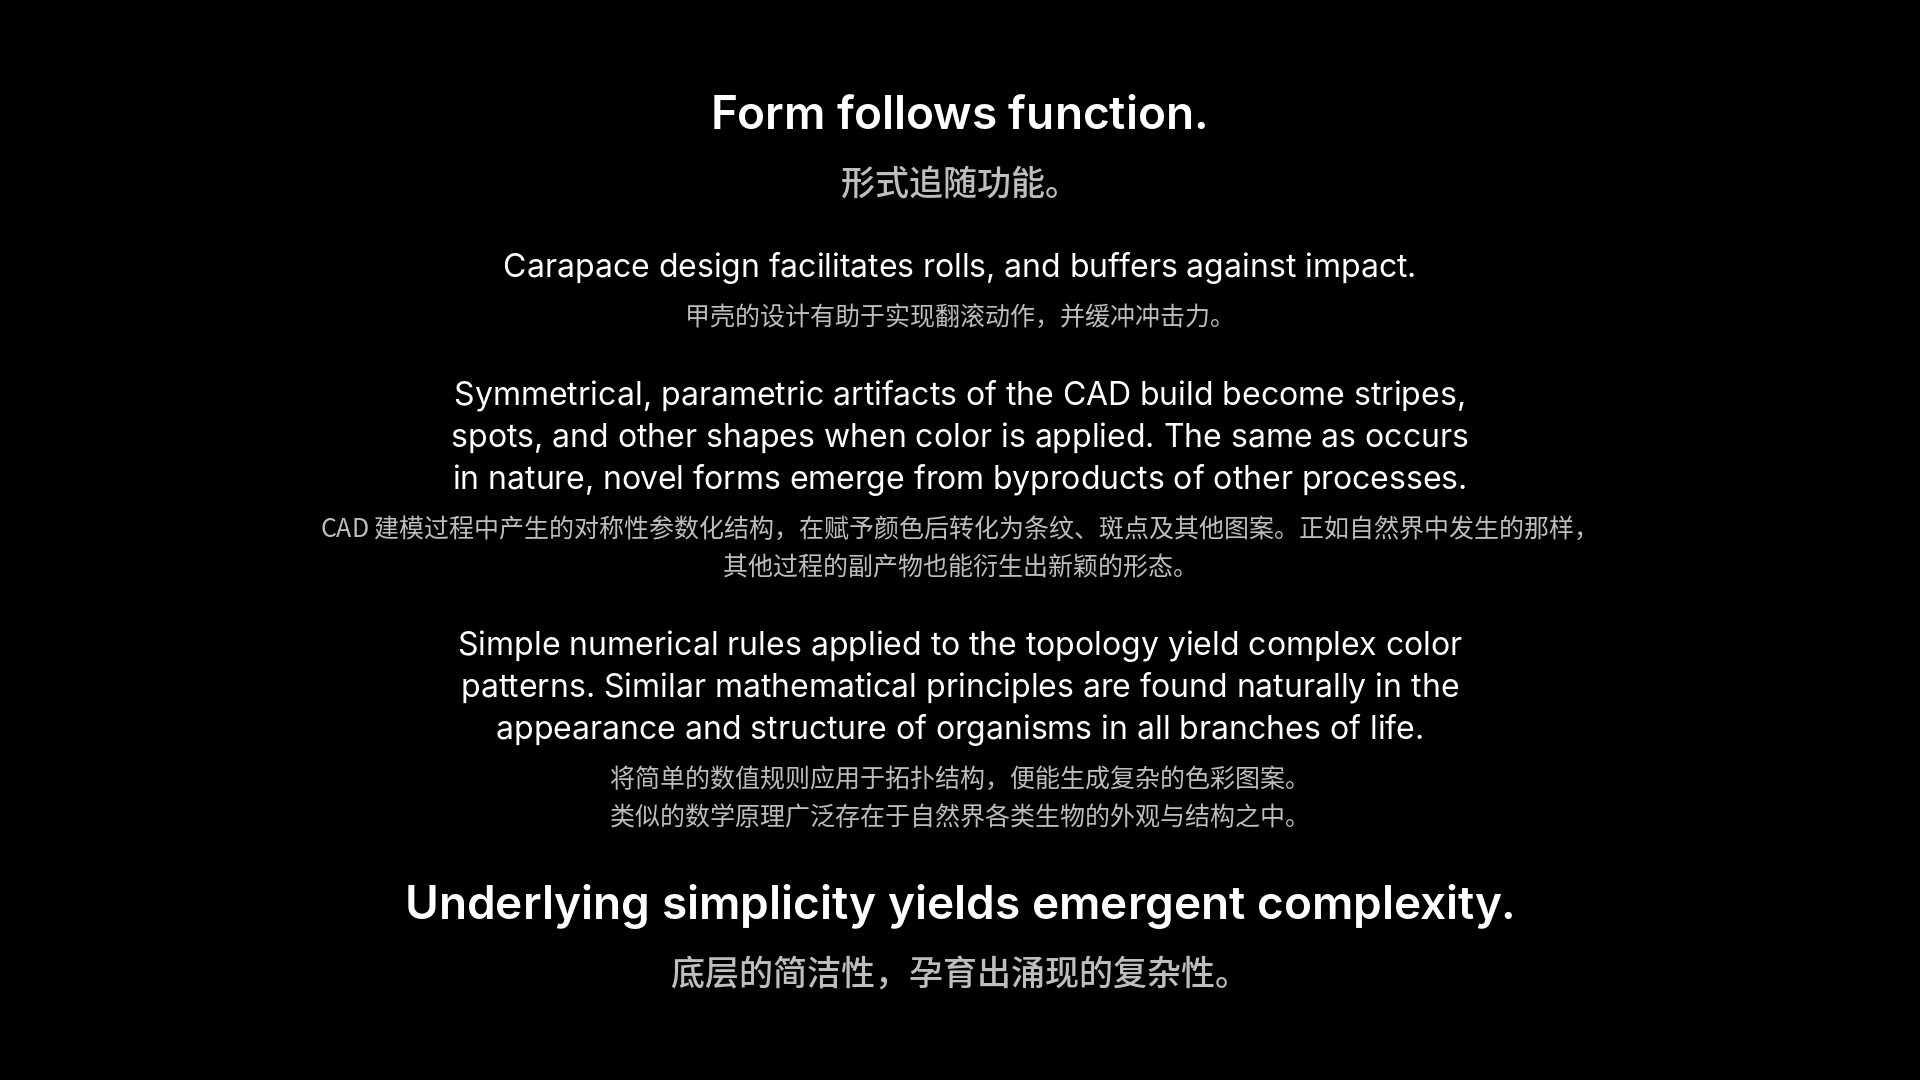
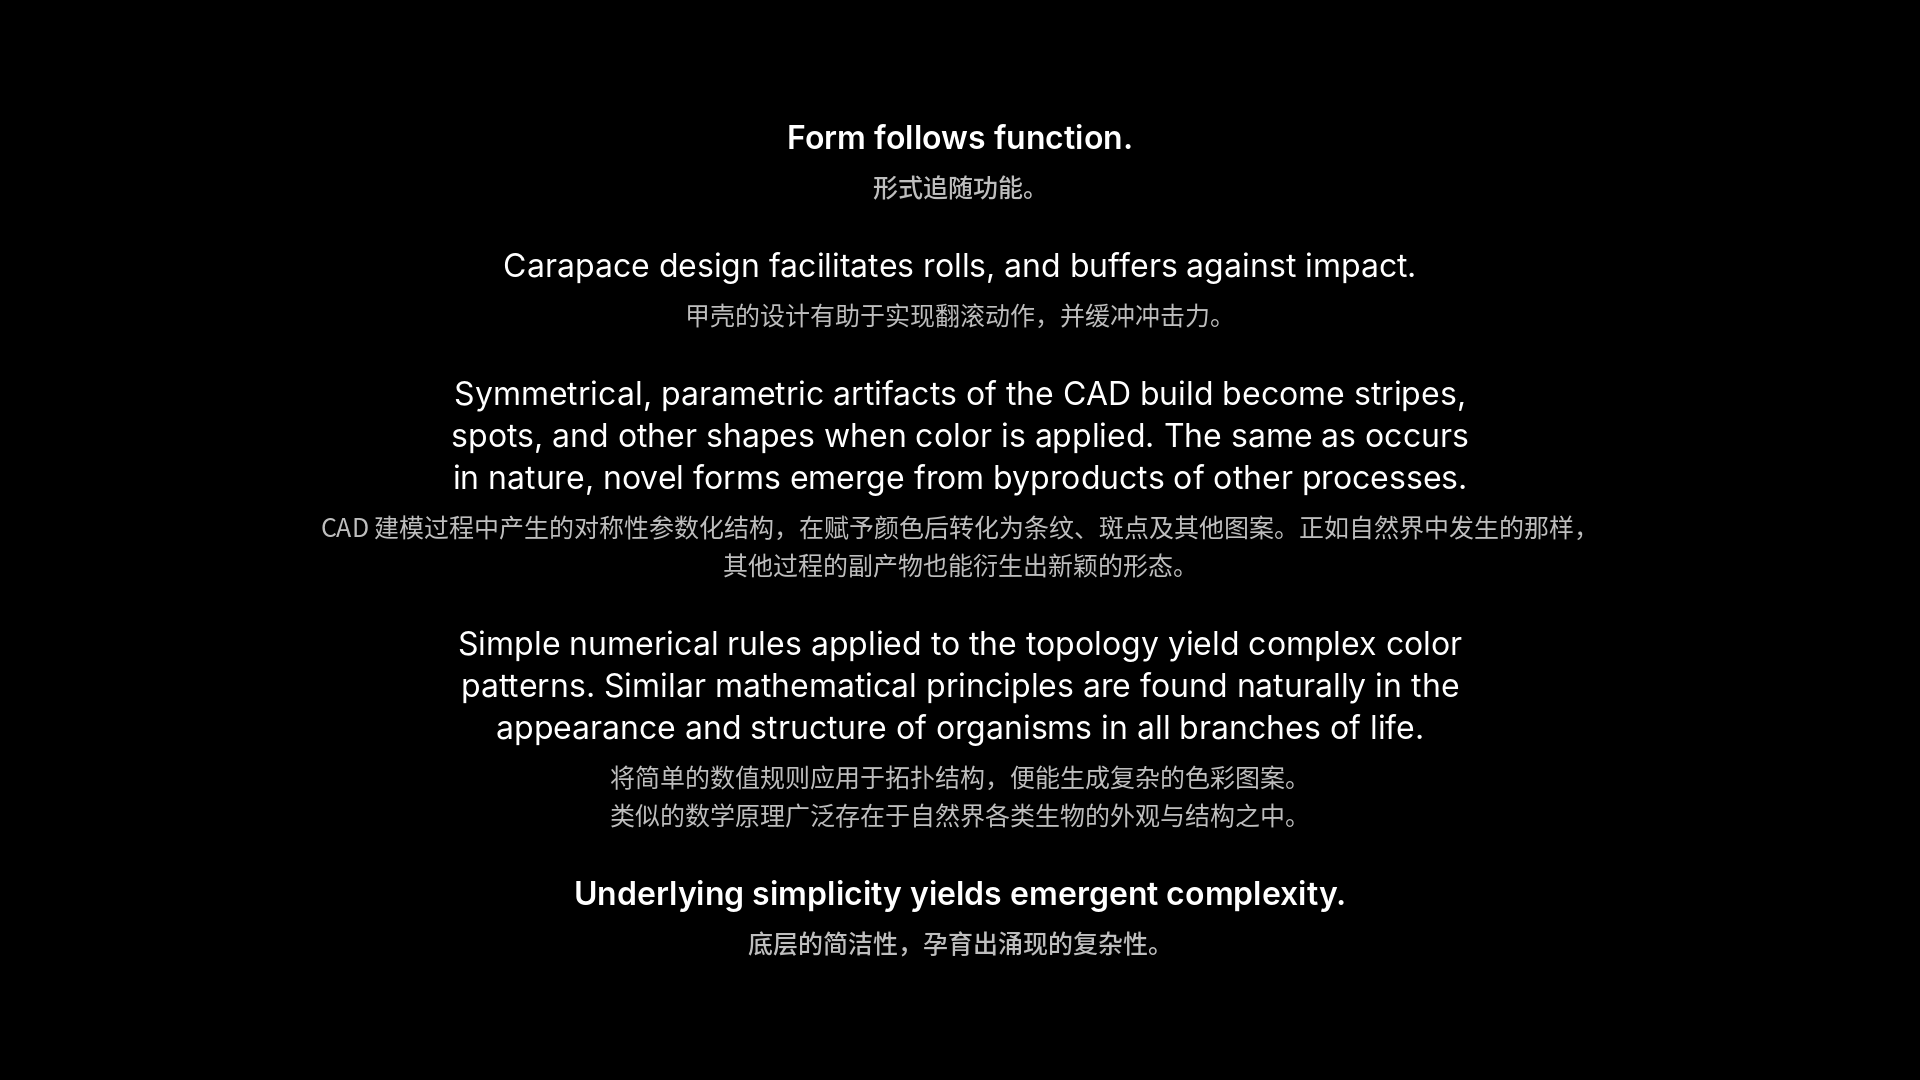
Footage statement slide: one size for all English, one for all Chinese
The opening and closing lines keep a heavier weight only.

Claude-Session: https://claude.ai/code/session_018e6UqHzaryVWYHuwL5wCvh

Changed region(s): [[0.1875, 0.7944, 0.7812, 0.9167], [0.375, 0.0917, 0.625, 0.1833]]

diff --git a/studies/footage/make_slide.py b/studies/footage/make_slide.py
@@ -16,7 +16,7 @@ or, for a statement slide,
     {"paragraphs": [{"en": str, "zh": str?, "lead": bool?}, ...]}
 
 each paragraph wrapped and centred, its Chinese beneath it; a lead paragraph (an
-opening or closing line) is drawn larger.
+opening or closing line) is drawn in a heavier weight, at the same size.
 
 A note row is drawn smaller, grey and italic (a comparison line). 1920x1080; Inter
 for Latin, Noto Sans CJK SC for Chinese.
@@ -40,8 +40,8 @@ def statement(spec):
     img = Image.new("RGB", (W, H), (0, 0, 0))
     dr = ImageDraw.Draw(img)
     width = 1320
-    fonts = {True: (ImageFont.truetype(INTER.format("SemiBold"), 46),
-                    ImageFont.truetype(CJK.format("Medium"), 34, index=CJK_SC)),
+    fonts = {True: (ImageFont.truetype(INTER.format("SemiBold"), 32),
+                    ImageFont.truetype(CJK.format("Medium"), 25, index=CJK_SC)),
              False: (ImageFont.truetype(INTER.format("Regular"), 32),
                      ImageFont.truetype(CJK.format("Regular"), 25, index=CJK_SC))}
 
